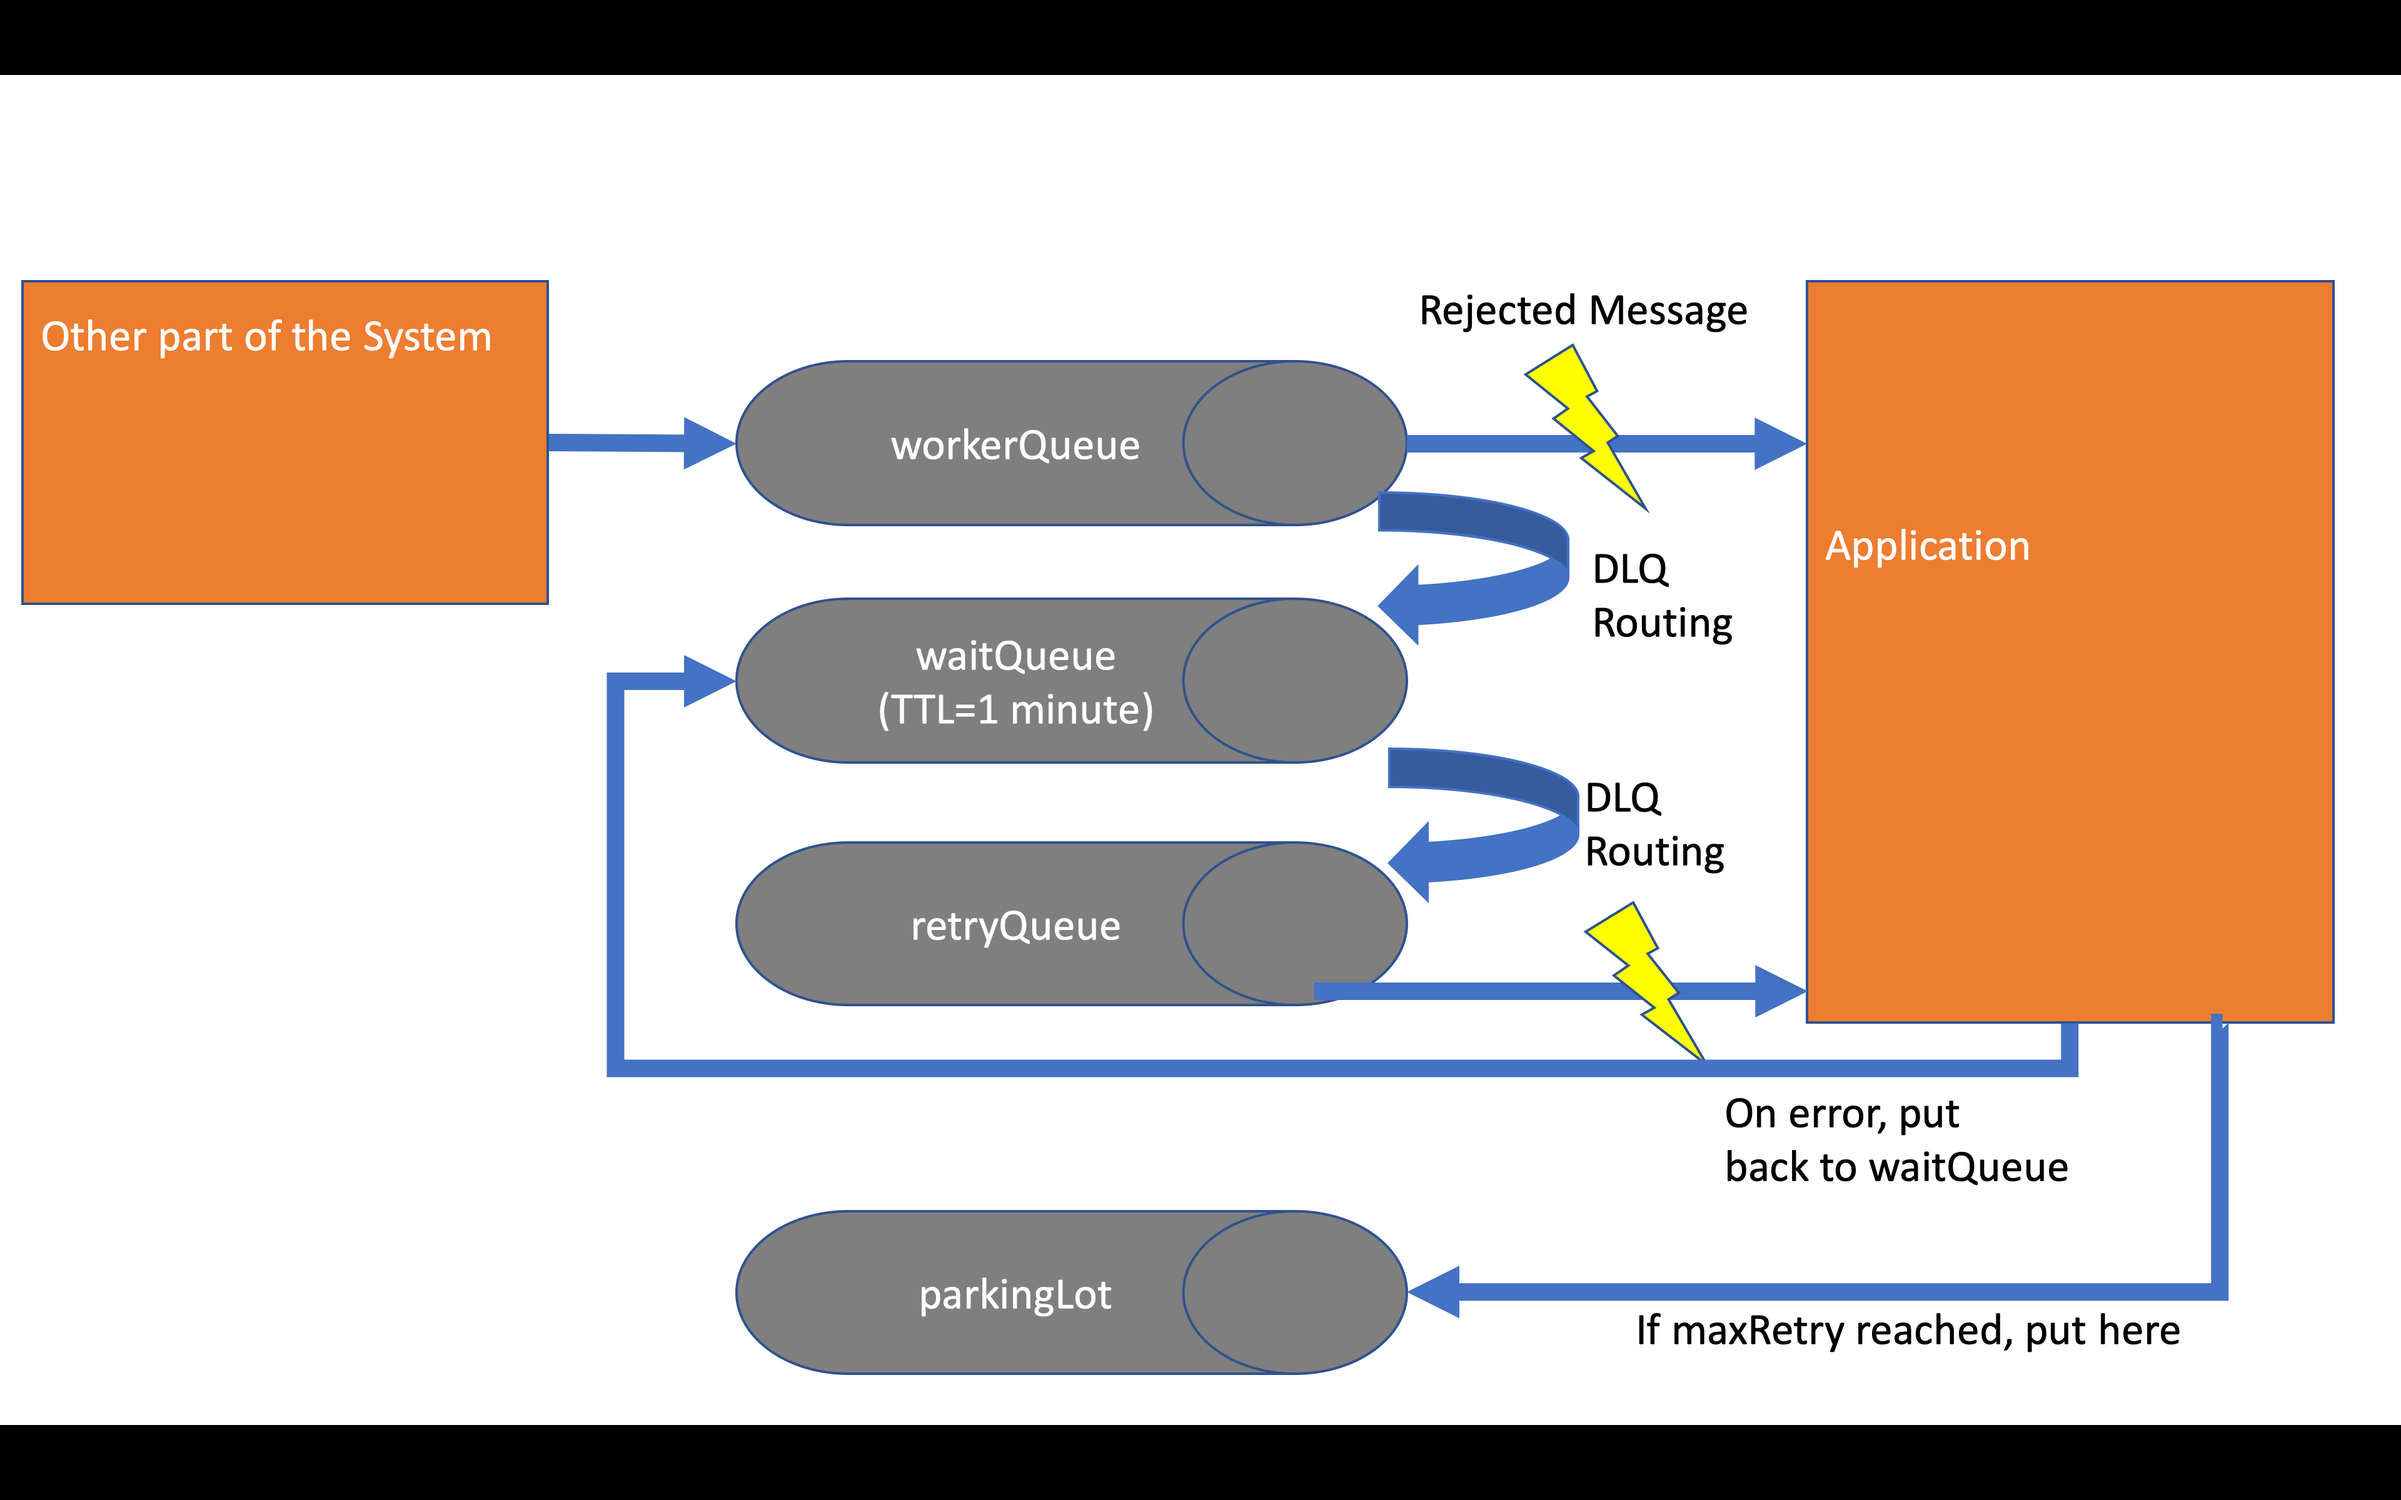
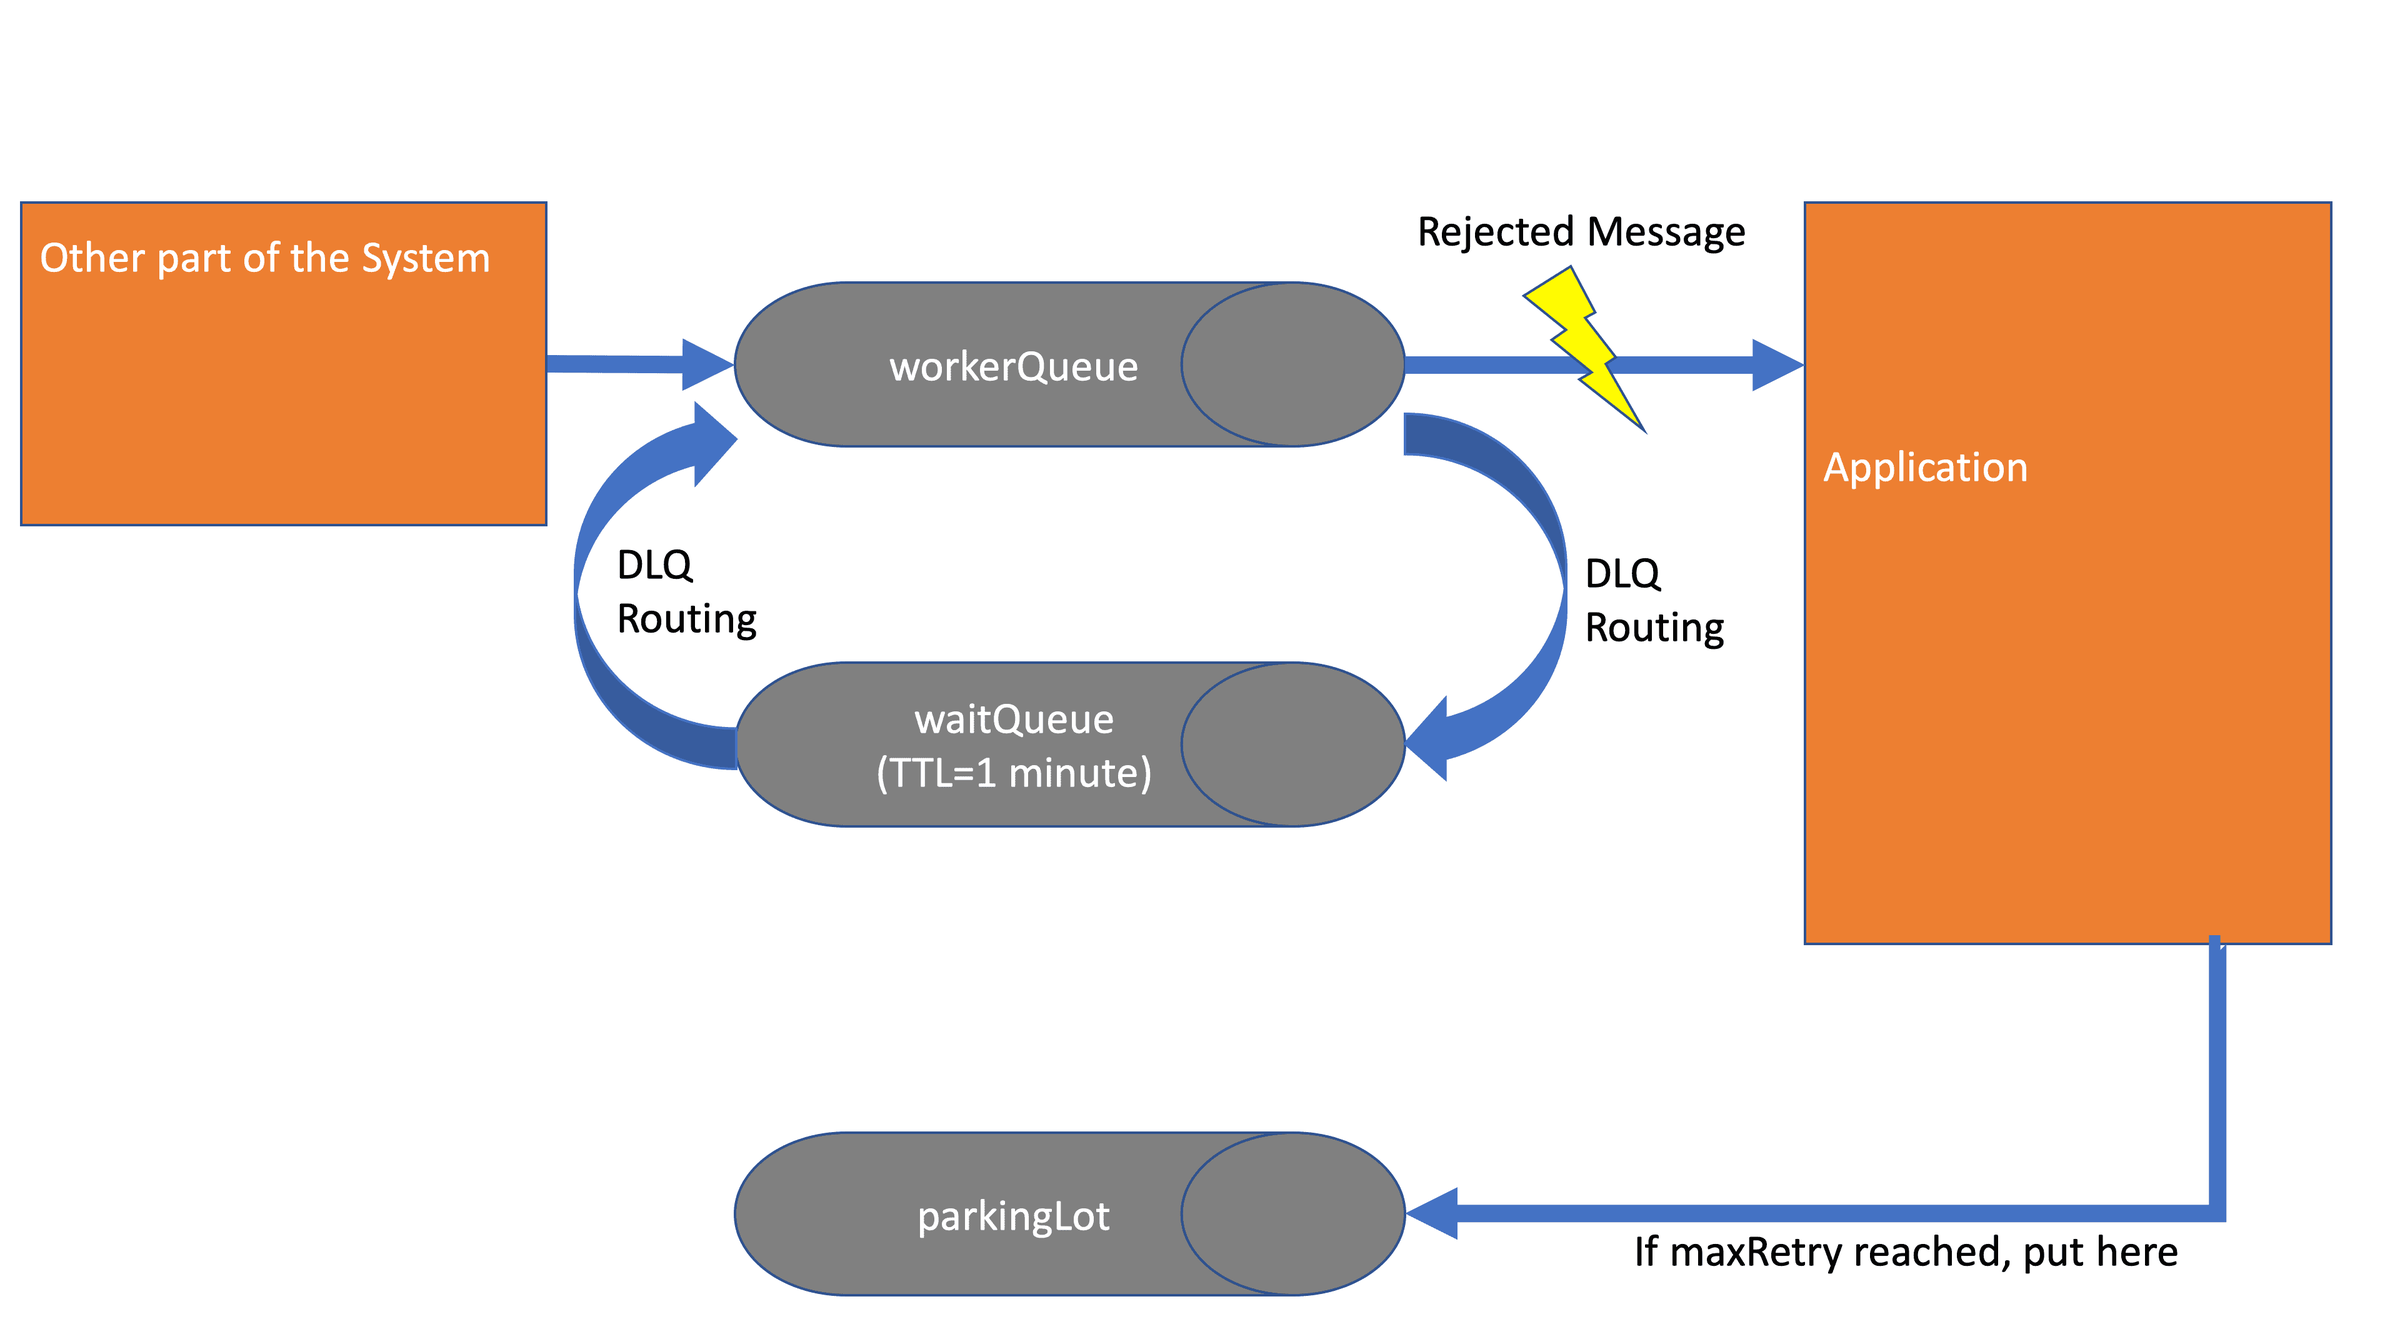
Bump Nokogiri version

Changed region(s): [[0.0, 0.1232, 1.0, 1.0], [0.0, 0.0, 1.0, 0.0616], [0.0, 0.1232, 0.249, 0.2465]]

diff --git a/_posts/2019-10-21-reliable-rabbit-mq.md b/_posts/2019-10-21-reliable-rabbit-mq.md
@@ -3,7 +3,7 @@ layout: post
 title: "Reliable Execution with RabbitMQ"
 subtitle: "Build a Retrying Scheduler"
 bigimg: /img/content/reliable-rabbit_title.jpg
-share-img: https://programmerfriend.com/img/content/reliable-rabbit_title.jpg
+share-img: https://programmerfriend.com/img/content/reliable-rabbit_queues.png
 description: "Tutorial: Let's build a Retrying Scheduler with RabbitMQ!"
 gh-repo: programmerfriend/spring-boot-reliable-rabbitmq
 gh-badge: [star, fork]
@@ -43,7 +43,7 @@ When you define a TTL (Time-to-live) on a queue, it will drop messages which hav
 
 #### Dead-Lettering
 DLE (Dead Letter Exchanges) and DLQ (Dead-Letter-Queues) are both something you can configure as policy for all queues or manually per queue.
-Dead-Lettering defines what should happen with messages that get rejected by a consumer.
+Dead-Lettering defines what should happen with messages that get rejected by a consumer. When RabbitMQ uses the dead-letter-mechanic, it passes the message to a specific exchange and/or routing-key and adds some meta-data about the dead-letter-process (e.g. how often the message was already dead-lettered).
 
 #### Poison Messages
 Poison Messages are messages that can not get consumed and cause havoc in your system.
@@ -65,8 +65,7 @@ Have a look at the following sketch:
 
 What do we see here?
 * **WorkerQueue**: The queue which contains our internal event to trigger the update to the external system. Our Application is bound to it and consumes all messages. It has a DLQ configuration to pass rejected messages to the WaitQueue.
-* **WaitQueue**: Most of the magic lives here: It has no active listener bound, but a TTL of 1 minute and a DLQ configuration. With this in place, it will forward all message which it receives after 1 minute to the defined DLQ. We use this to put our messages back into the RetryQueue after 1 minute.
-* **RetryQueue**: A special queue for all messages which will get retried. We could even get rid of the RetryQueue and just use the MainQueue but then the listener implementation would not be so clean since we would have to mix new and retried messages at the same place in the code.
+* **WaitQueue**: Most of the magic lives here: It has no active listener bound, but a TTL of 1 minute and a DLQ configuration. With this in place, it will forward all message which it receives after 1 minute to the defined DLQ. We use this to put our messages back into the WorkerQueue after 1 minute.
 * **ParkingLot**: When an update didn't make it after all Retrys got executed - we put it in the parkingLot so that we can have a manual look why the messages were not able to get processed. The application could also contain a logic to publish here directly to get rid of poison messages.
 
 ### Let's code this!
@@ -83,10 +82,13 @@ Thankfully the autoconfiguration is doing a lot of things. If you run with the d
 Having `spring-amqp` on the classpath is enough to connect your application to RabbitMQ.
 
 In case you don't have the default credentials, feel free to configure the credentials in the `application.properties`.
+When you are already there, disable the default requeue behaviour by adding `spring.rabbitmq.listener.simple.default-requeue-rejected=false`.
 
 ```
 spring.rabbitmq.password=$$$$
 spring.rabbitmq.username=Admin
+
+spring.rabbitmq.listener.simple.default-requeue-rejected=false
 ```
 
 Time to define our queues and bindings.
@@ -98,15 +100,13 @@ As you have seen in the chart, we need an exchange, a few queues and a few bindi
 @Configuration
 public class RabbitConfiguration {
 
-    public static final String EXCHANGE_NAME = "tutorial-exchange";
+    private static final String EXCHANGE_NAME = "tutorial-exchange";
     public static final String PRIMARY_QUEUE = "primaryWorkerQueue";
 
-    public static final String RETRY_QUEUE = PRIMARY_QUEUE + ".retry";
-    public static final String WAIT_QUEUE = PRIMARY_QUEUE + ".wait";
+    private static final String WAIT_QUEUE = PRIMARY_QUEUE + ".wait";
 
     public static final String PARKINGLOT_QUEUE = PRIMARY_QUEUE + ".parkingLot";
 
-    public static final String X_RETRIES_HEADER = "x-retries";
     private static final String PRIMARY_ROUTING_KEY = "primaryRoutingKey";
 
     @Bean
@@ -126,14 +126,9 @@ public class RabbitConfiguration {
     Queue waitQueue() {
         return QueueBuilder.durable(WAIT_QUEUE)
             .deadLetterExchange(EXCHANGE_NAME)
-            .deadLetterRoutingKey(RETRY_QUEUE)
+            .deadLetterRoutingKey(PRIMARY_ROUTING_KEY)
             .ttl(10000)
             .build();
-    }
-
-    @Bean
-    Queue retryQueue() {
-        return new Queue(RETRY_QUEUE);
     }
 
     @Bean
@@ -152,11 +147,6 @@ public class RabbitConfiguration {
     }
 
     @Bean
-    Binding retryBinding(Queue retryQueue, DirectExchange exchange) {
-        return BindingBuilder.bind(retryQueue).to(exchange).with(RETRY_QUEUE);
-    }
-
-    @Bean
     Binding parkingBinding(Queue parkinglotQueue, DirectExchange exchange) {
         return BindingBuilder.bind(parkinglotQueue).to(exchange).with(PARKINGLOT_QUEUE);
     }
@@ -168,8 +158,7 @@ This should be enough to build something similar to what we had in our sketch.
 A short recap what we defined here:
 * a `direct exchange` for our queues
 * our `primary worker queue` which will dead-letter its mesages to the `wait queue`
-* the `wait queue`, which has a TTL of 10 seconds (10000ms) and dead-letters its messages to the `retry queue`
-* the `retry queue`
+* the `wait queue`, which has a TTL of 10 seconds (10000ms) and dead-letters its messages to the `primary worker queue`
 * the `parking lot queue`
 * the correct bindings for all of them
 
@@ -178,16 +167,17 @@ A short recap what we defined here:
 
 #### Building the retry logic
 
-As seen in the chart we need two listeners in our scenario.
-One listener for the `primary worker queue` and one for the `retry queue`.
-Also we will publish messages to the `wait queue` and the `parking lot queue`.
+As seen in the chart we need one listener for the `primary worker queue`.
+Also we will publish messages to the `parking lot queue`.
 
-Creating the listeners is easy by just using the `@RabbitListener` annotation and specifing the queue name.
+Creating the listener is easy by just using the `@RabbitListener` annotation and specifing the queue name.
 Publish to an exchange using a `RoutingKey` is easily be done by interacting with `RabbitTemplate` and its `send`-method.
 
 ```
 @Component
 public class RetryingRabbitListener {
+
+    private Logger logger = LoggerFactory.getLogger(RetryingRabbitListener.class);
 
     private RabbitTemplate rabbitTemplate;
 
@@ -196,43 +186,37 @@ public class RetryingRabbitListener {
     }
 
     @RabbitListener(queues = PRIMARY_QUEUE)
-    public void primary(String in) throws Exception {
-        System.out.println("Message read from testq : " + in);
-        throw new AmqpRejectAndDontRequeueException("There was an error");
+    public void primary(Message in) throws Exception {
+        logger.info("Message read from workerQueue: " + in);
+        if (hasExceededRetryCount(in)) {
+            putIntoParkingLot(in);
+            return;
+        }
+        throw new Exception("There was an error");
     }
 
-    @RabbitListener(queues = RETRY_QUEUE)
-    public void republish(Message failedMessage) {
-        System.out.println("Message read from RetryQueue : " + failedMessage);
-        Map<String, Object> headers = failedMessage.getMessageProperties().getHeaders();
-        Integer retriesHeader = (Integer) headers.get(X_RETRIES_HEADER);
-
-        if (retriesHeader == null) {
-            retriesHeader = 0;
+    private boolean hasExceededRetryCount(Message in) {
+        List<Map<String, ?>> xDeathHeader = in.getMessageProperties().getXDeathHeader();
+        if (xDeathHeader != null && xDeathHeader.size() >= 1) {
+            Long count = (Long) xDeathHeader.get(0).get("count");
+            return count >= 3;
         }
-        if (retriesHeader < 3) {
 
-            try {
-                //assume here something real
-                throw new Exception("There was an error handling the message");
-            } catch (Exception e) {
-                headers.put(X_RETRIES_HEADER, retriesHeader + 1);
-                System.out.println("Doing something resulting in an error again {error-count: " + retriesHeader + "}");
-                this.rabbitTemplate.send(EXCHANGE_NAME, WAIT_QUEUE, failedMessage);
-            }
-        } else {
-            putIntoParkingLot(failedMessage);
-        }
+        return false;
     }
 
     private void putIntoParkingLot(Message failedMessage) {
-        System.out.println("Retries exeeded putting into parking lot");
+        logger.info("Retries exeeded putting into parking lot");
         this.rabbitTemplate.send(PARKINGLOT_QUEUE, failedMessage);
     }
 }
 ```
 
 This should be enough to implement the flow of our charts.
+The only interesting thing that happens here is that we read the count from the first xDeathHeader element.
+When a message is affected by a dead-letter-mechanic, rabbitMQ adds an entry in the xDeathHeader-Array.
+This array has an entry for each Queue on which a message was dead-lettered. Since our messages will only pass one Queue, it is fine to just check the first element.
+If you want to be safe, you could find the correct array element by filtering for the queueName. If you want to learn more about the internal mechanics of RabbitMQ, the [documentation](https://www.rabbitmq.com/dlx.html) is again really good.
 
 Let's head over to the Application class and modify it a bit to generate regularly some messages.
 
@@ -259,7 +243,7 @@ public class ReliableRabbitmqAmqpApplication implements CommandLineRunner {
 ```
 
 Now you can start the application and watch it doing its thing - either in the logs or on [http://localhost:15672/#/queues](http://localhost:15672/#/queues).
-You should see how the application create a message each minute. The message passes the `primary worker queue`, the `wait queue` and the `retry queue`. Due to us not implementing a success case, all messages end up in the `parkinglot queue`.
+You should see how the application create a message each minute. The message passes the `primary worker queue` and the `wait queue`. Due to us not implementing a success case, all messages end up in the `parkinglot queue`.
 
 <figure>
   <img src="{{site.url}}/img/content/reliable-rabbit_admin.png" alt="Screenshot of the RabbitMQ Queue view"/>
@@ -273,3 +257,33 @@ So what did we do?
 We built a retrying consumer using RabbitMQ.  We have the possibility to take a look at the messages which we were not able to deliver, since they end up in the `parkinglot queue`. 
 
 I hope you liked this tutorial and you learned something. The working application can be found on [GitHub](https://github.com/programmerfriend/spring-boot-reliable-rabbitmq).
+
+
+## Footnote
+
+### Why didn't you just use the built-in retry of spring-amqp?
+
+Yes, I am aware of the retry available within `spring-amqp`.
+In the repository of this tutorial, there is also an example where I used it to implement the retry (see: [https://github.com/programmerfriend/spring-boot-reliable-rabbitmq/tree/master/spring-amqp-retry](https://github.com/programmerfriend/spring-boot-reliable-rabbitmq/tree/master/spring-amqp-retry)).
+
+Overall it is:
+* using only configuration
+* only requiring one additional queue (parkingLot)
+* well known by other developers
+
+So, let me tell you why I didn't use it:
+
+The problem I have with it is that it is blocking `the RabbitListener` while waiting for the retry.
+
+In our use-case we have a wait between retries of one hour. A single message would block the whole listener for one hour.
+
+In order to improve this, we could increase the amount of available listeners (either via concurrency or just adding more application instances) but the cure is probably not much better than the disease here. Even with more listeners, you could block all of them - we would just need more messages now.
+
+Also: If you encounter this behaviour in production, it is really hard to see.
+Out of a sudden, you might be having a lot of exceptions and then no logs at all - while all messages start piling up in the queues.
+
+I am not against using the built-in retry mechanismn. I would just not use it for long times between retries.
+
+
+Again thanks for your time finishing this tutorial, hope again you learned a lot.
+Feel free to leave a comment.
